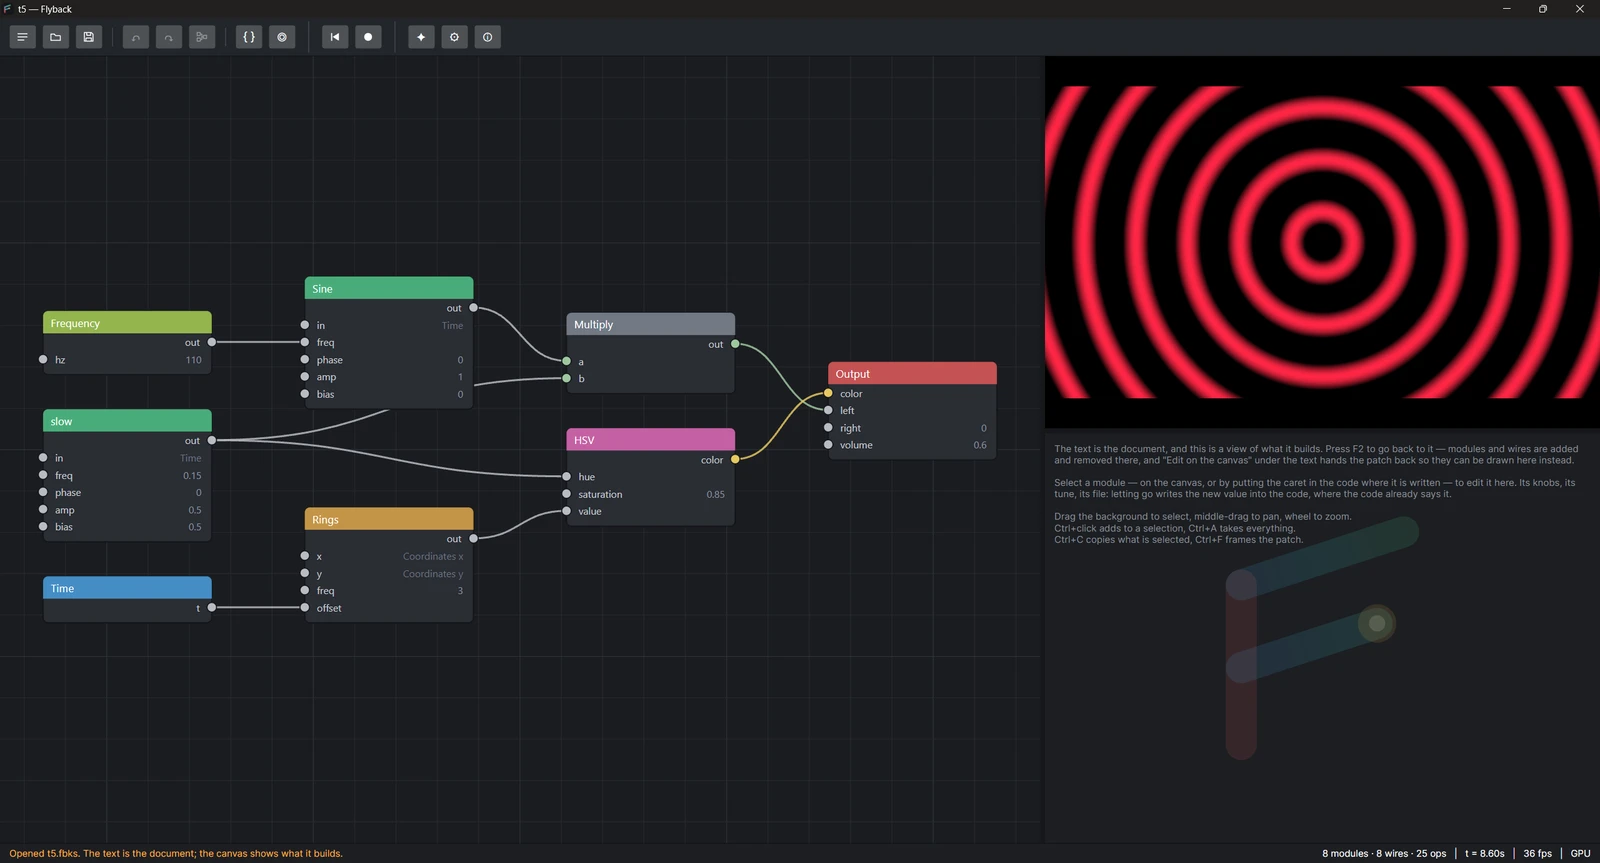
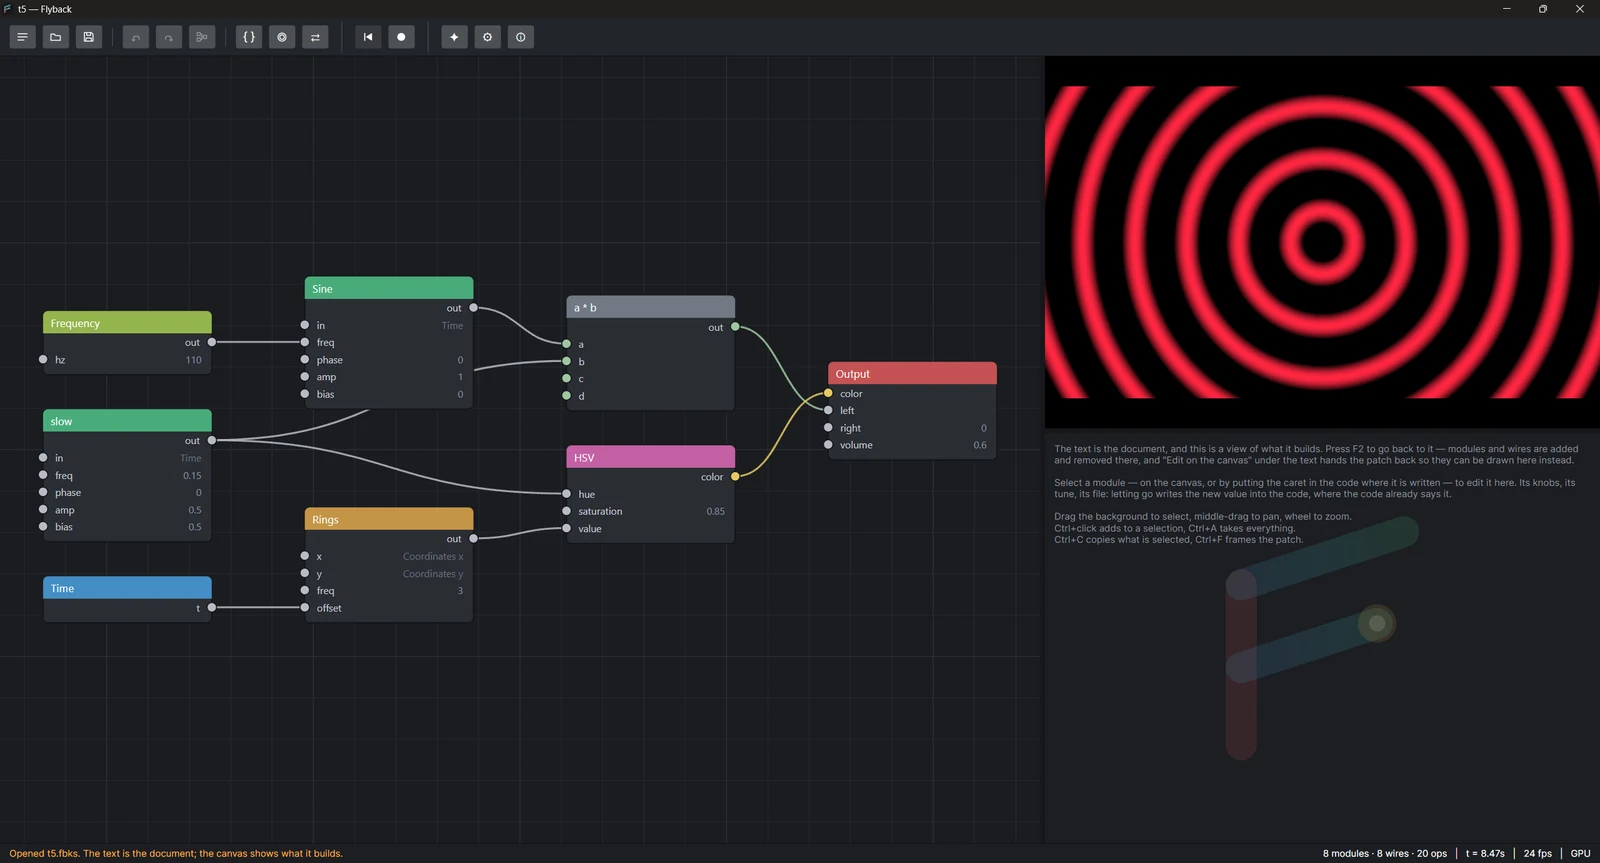
The site's Whole band, Euclid kit and tutorial shots show Expressions
The three canvas shots still showed Multiplies and the module counts from before
the arithmetic was folded; they are retaken from the real app. The rule for
running the app no longer hands presets with sound back to the user.

diff --git a/site/index.html b/site/index.html
@@ -490,7 +490,7 @@ let slowly = t * 0.2
         <figure>
           <div class="window">
             <img loading="lazy" src="assets/shots/whole-band.webp" width="1600" height="863"
-                 alt="The Whole band patch collapsed into boxes named Clock, Sequences, Bass, Lead, Kick, Hats, Desk, Picture: Geometry, Picture: Color and Picture: Feedback, wired into the Output.">
+                 alt="The Whole band patch collapsed into boxes named Clock, Song, Noise, Kick, Hats, Snare, Bass, Strings, Pad, Lead, Room, Desk, Picture: Geometry, Picture: Color and Picture: Feedback, wired into the Output.">
           </div>
         </figure>
       </div>

diff --git a/.claude/rules/running-the-app.md b/.claude/rules/running-the-app.md
@@ -14,4 +14,4 @@ Before sending keys, bring your window to the front and check that `GetForegroun
 
 **Why:** a capture script once took the first Flyback window it found and began by stopping every `Flyback` process. The window it then drove, maximizing it, clicking its canvas and pressing Ctrl+F, was a Release build from the main checkout, not the Debug build the session had launched. It may have been the user's own.
 
-A preset that makes sound plays through the user's speakers the moment it opens. To look at one, open a copy with the Output's `volume` at nought, or leave it to the user (see the `site-screenshots` skill).
+A preset that makes sound plays through the user's speakers the moment it opens. To look at one, open a copy with the Output's `volume` at nought.
